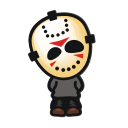
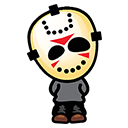
Shane: added retina images. Fixes #39

Changed region(s): [[0.1875, 0.0312, 0.8125, 0.9688]]

diff --git a/app/templates/about-modal.html b/app/templates/about-modal.html
@@ -4,7 +4,7 @@
 	<p>v{{ version }}</p>
 </div>
 <div class="modal-body">
-	<p><img src="images/icon-128x128.png"/></p>
+	<p><img src="images/icon-256x256.png"/></p>
 	<p>Developed and maintained by <a href="mailto:shane.bell@gmail.com" target="_mail">Shane Bell</a></p>
 	<p>Licensed under the <a href="http://www.apache.org/licenses/LICENSE-2.0" target="_license">Apache License v2.0</a></p>
 	<p>Available from the <a href="https://chrome.google.com/webstore/detail/jason/oealdlhfjifhgbmjnenhkgffglaibojf" target="_webstore">Chrome Web Store</a></p>

diff --git a/app/less/JaSON.less b/app/less/JaSON.less
@@ -97,6 +97,10 @@ html {
 
   .navbar-brand {
     padding: 0px;
+    img {
+      height: 48px;
+      width: 48px;
+    }
   }
 
   .title {
@@ -116,6 +120,10 @@ html {
   text-align: center;
   .modal-dialog {
     width: 500px;
+    img {
+      height: 128px;
+      width: 128px;
+    }
     .modal-footer {
       text-align: center;
     }

diff --git a/app/JaSON.html b/app/JaSON.html
@@ -77,7 +77,7 @@
 
 		<div class="navbar-header">
 			<a class="navbar-brand" href="#">
-				<img src="images/icon-48x48.png"/>
+				<img src="images/icon-96x96.png"/>
 			</a>
 			<div class="title">JaSON</div>
 		</div>
